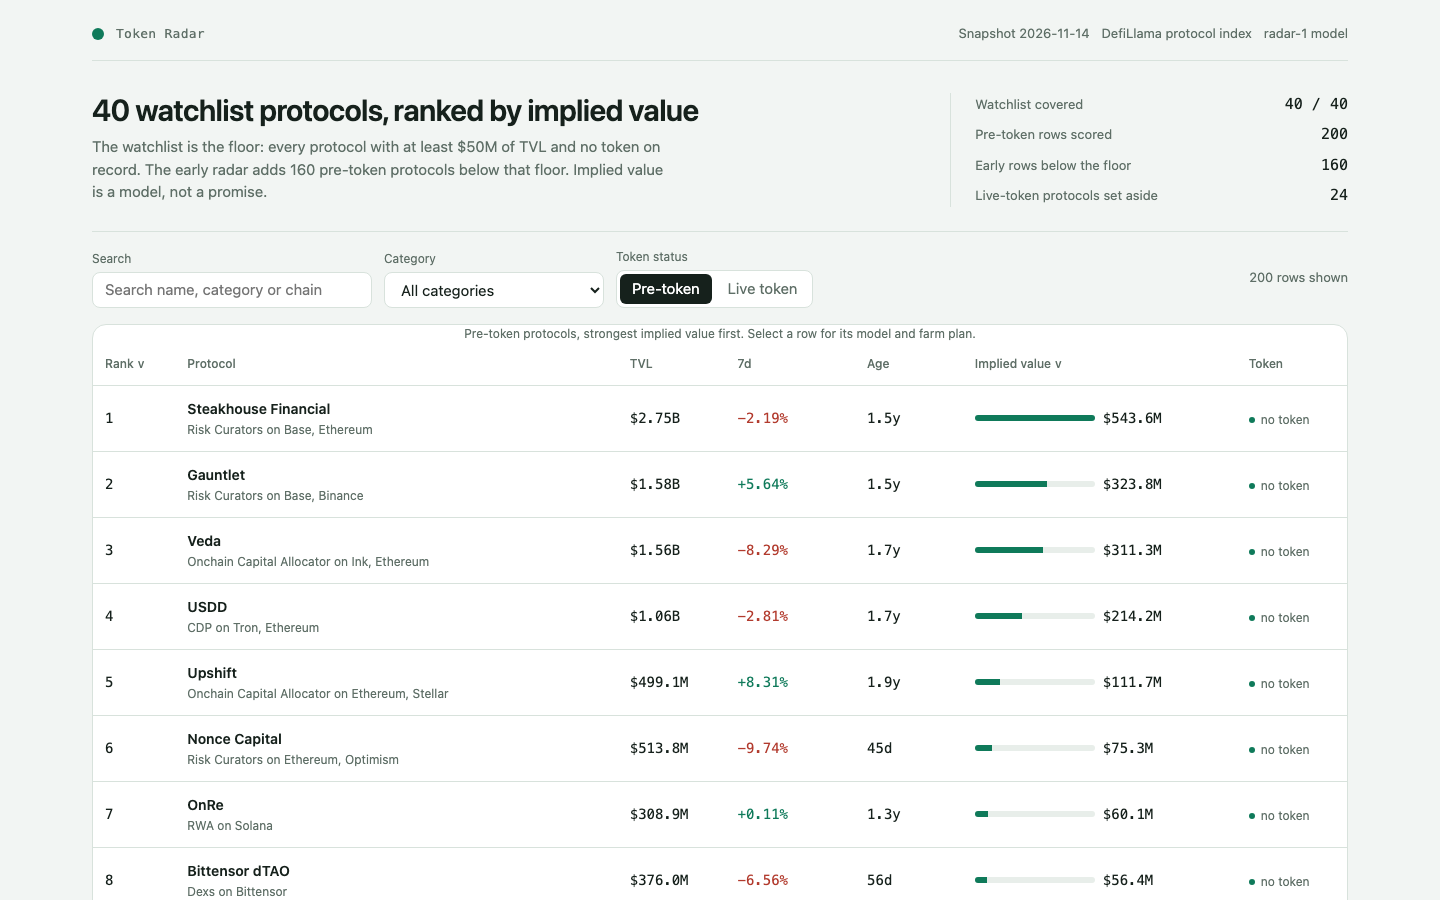
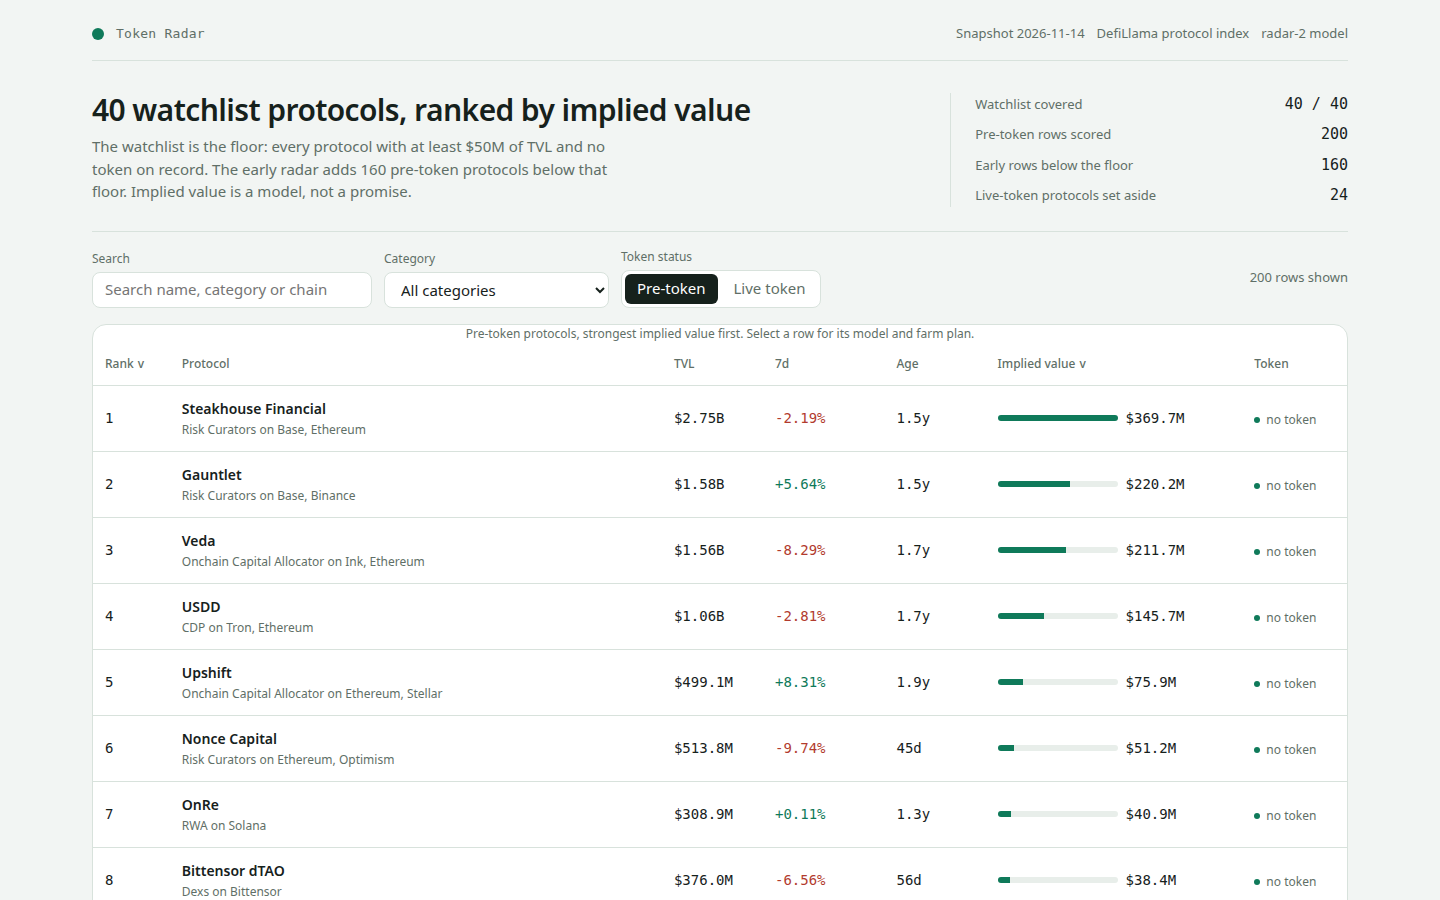
radar-3: detail farm plan is board.json's own plan, sticky header, hover fix, early-find chips, fresh screenshots

diff --git a/dashboard/app.js b/dashboard/app.js
@@ -57,56 +57,8 @@
     return node;
   }
 
-  // The farm plan is the same derivation main.ts writes to board.json: category, chains, TVL and age
-  // decide the action, the capital, the hold and every cost and time. No name is special-cased.
-  function chainOf(p) { return p.chains && p.chains.length > 0 ? p.chains[0] : 'its main chain'; }
-  function capitalFor(p) {
-    if (p.tvl_usd >= 5e9) return 250;
-    if (p.tvl_usd >= 1e9) return 150;
-    if (p.tvl_usd >= 1e8) return 100;
-    return 50;
-  }
-  function holdDaysFor(age) {
-    if (age === null || age === undefined) return 30;
-    if (age < 180) return 60;
-    if (age < 365) return 45;
-    return 30;
-  }
-  function actionFor(p, capital, chain) {
-    var c = (p.category || '').toLowerCase();
-    var name = p.name;
-    if (c.indexOf('lend') >= 0 || c.indexOf('cdp') >= 0 || c.indexOf('collateral') >= 0) return 'Supply $' + capital + ' of USDC to ' + name + ' on ' + chain + ' and keep the position open.';
-    if (c.indexOf('dex') >= 0 || c.indexOf('yield') >= 0 || c.indexOf('leveraged farm') >= 0) return 'Provide $' + capital + ' of liquidity to ' + name + "'s main pool on " + chain + ' and keep the position open.';
-    if (c.indexOf('bridge') >= 0) return 'Bridge $' + capital + ' of USDC to ' + chain + ' through ' + name + ' and use the bridged funds in its app.';
-    if (c.indexOf('staking') >= 0 || c.indexOf('restak') >= 0) return "Stake $" + capital + " of the chain's staking asset through " + name + ' and keep the receipt.';
-    if (c.indexOf('perpetual') >= 0 || c.indexOf('derivative') >= 0) return 'Deposit $' + capital + ' of USDC as margin on ' + name + ' and open one small hedge.';
-    if (c.indexOf('prediction') >= 0) return 'Fund $' + capital + ' and place one market position on ' + name + '.';
-    if (c.indexOf('curator') >= 0 || c.indexOf('allocator') >= 0) return 'Deposit $' + capital + ' into a ' + name + ' vault on ' + chain + ' and keep the shares.';
-    if (c.indexOf('stable') >= 0) return 'Mint or deposit $' + capital + ' of the stable asset through ' + name + ' on ' + chain + '.';
-    if (c.indexOf('rwa') >= 0) return "Mint $" + capital + " of the protocol's yield asset on " + chain + ' and hold it.';
-    if (c.indexOf('insurance') >= 0) return 'Buy $' + capital + ' of cover from ' + name + ' on ' + chain + ' and keep the policy.';
-    return 'Deposit $' + capital + ' of USDC into ' + name + ' on ' + chain + ' and keep the position open.';
-  }
-  function stepText(step) {
-    var s = step.text + ' Cost: ' + step.cost + '. Time: ' + step.time + '.';
-    if (s.length > 600) s = s.slice(0, 596) + '...';
-    if (s.length < 20) s = s + " Hold the position and check the protocol's own page.";
-    return s;
-  }
-  function farmSteps(p) {
-    var chain = chainOf(p);
-    var capital = capitalFor(p);
-    var hold = holdDaysFor(p.age_days);
-    return [
-      { text: 'Use a fresh wallet that holds only the funds you plan to farm, and keep its seed phrase offline.', cost: 'under $3 of gas for the first transaction', time: '5 minutes' },
-      { text: actionFor(p, capital, chain), cost: '$' + capital + ' of capital and about $' + (capital >= 150 ? 8 : 4) + ' of gas', time: '15 minutes to set up' },
-      { text: 'Make one qualifying action each week, such as a deposit, a borrow, a swap or a vote.', cost: 'about $2 of gas a week', time: '10 minutes a week' },
-      { text: 'Hold the position for at least ' + hold + ' days so the activity is counted in more than one snapshot.', cost: 'the $' + capital + ' stays in the position', time: hold + ' days' },
-      { text: "Before you withdraw, open the protocol's own points or rewards page and claim only from the link it publishes.", cost: 'no fee to check, and never pay to claim', time: '10 minutes' },
-      { text: 'Write the wallet, the dates and every transaction in a farm log so you can repeat the position or unwind it.', cost: 'nothing but the log', time: '5 minutes' }
-    ].map(stepText);
-  }
-
+  // The farm plan is board.json's own: data.js carries each row's farm_steps verbatim, so the
+  // detail view shows exactly the plan the gate checks. No second copy lives in this file.
   function readHash() {
     var hash = window.location.hash.replace(/^#/, '');
     if (!hash) return;
@@ -212,7 +164,7 @@
         el('button', { class: 'button primary', type: 'button', text: 'Clear filters', onclick: function () { state.q = ''; state.category = 'all'; writeHash(); render(); } })
       ));
     }
-    var max = list[0].implied_value_usd || 1;
+    var max = DATA.rows.reduce(function (m, r) { return Math.max(m, r.implied_value_usd); }, 1);
     var tbody = el('tbody');
     list.forEach(function (r) {
       var growth = r.change_7d === null ? 'n/a' : fmtPct(r.change_7d);
@@ -226,7 +178,7 @@
         el('td', { class: 'num', text: String(r.rank) }),
         el('td', null, el('div', { class: 'name' },
           el('b', { text: r.name }),
-          el('span', { class: 'sub', text: (r.category || 'Other') + ' on ' + (r.chains && r.chains.length ? r.chains.slice(0, 2).join(', ') : 'an unnamed chain') })
+          el('span', { class: 'sub', text: (r.category || 'Other') + ' on ' + (r.chains && r.chains.length ? r.chains.slice(0, 2).join(', ') : 'an unnamed chain') + (r.tvl_usd < DATA.floor_usd ? ' · early find' : '') })
         )),
         el('td', { class: 'num', text: fmtUsd(r.tvl_usd) }),
         el('td', { class: 'num ' + growthClass, text: growth }),
@@ -244,7 +196,7 @@
         el('table', null,
           el('caption', { class: 'sub', text: 'Pre-token protocols, strongest implied value first. Select a row for its model and farm plan.' }),
           el('thead', null, el('tr', null,
-            sortHeader('implied', 'Rank'),
+            el('th', { scope: 'col', text: 'Rank' }),
             sortHeader('name', 'Protocol'),
             sortHeader('tvl', 'TVL'),
             sortHeader('growth', '7d'),
@@ -263,7 +215,7 @@
     DATA.live.forEach(function (r) {
       tbody.appendChild(el('tr', null,
         el('td', { class: 'num', text: 'live' }),
-        el('td', null, el('div', { class: 'name' }, el('b', { text: r.name }), el('span', { class: 'sub', text: (r.category || 'Other') + ' on ' + (r.chains && r.chains.length ? r.chains.slice(0, 2).join(', ') : 'an unnamed chain') }))),
+        el('td', null, el('div', { class: 'name' }, el('b', { text: r.name }), el('span', { class: 'sub', text: (r.category || 'Other') + ' on ' + (r.chains && r.chains.length ? r.chains.slice(0, 2).join(', ') : 'an unnamed chain') + (r.tvl_usd < DATA.floor_usd ? ' · early find' : '') }))),
         el('td', { class: 'num', text: fmtUsd(r.tvl_usd) }),
         el('td', { class: 'num ' + (r.change_7d !== null && r.change_7d >= 0 ? 'pos' : 'neg'), text: fmtPct(r.change_7d) }),
         el('td', { class: 'num', text: fmtUsd(r.mcap_usd) }),
@@ -302,7 +254,7 @@
     state.selected = slug;
     writeHash();
     dialog.textContent = '';
-    var steps = farmSteps(row);
+    var steps = row.farm_steps || [];
     dialog.appendChild(el('div', { class: 'detail-head' },
       el('div', null,
         el('span', { class: 'brand-name', text: 'Rank ' + row.rank + ' of ' + DATA.board_size }),

diff --git a/dashboard/app.css b/dashboard/app.css
@@ -83,7 +83,8 @@ th { color: var(--muted); font-size: 12px; font-weight: 500; white-space: nowrap
 th button { display: inline-flex; align-items: center; gap: var(--step-1); border: 0; background: none; padding: 0; color: inherit; font: inherit; }
 th button:hover { color: var(--ink); }
 tbody tr { cursor: pointer; }
-tbody tr:hover { background: var(--surface); }
+tbody tr:hover { background: color-mix(in srgb, var(--accent) 5%, var(--surface)); }
+thead th { position: sticky; top: 0; background: var(--surface); z-index: 1; }
 tbody tr[data-selected="true"] { background: color-mix(in srgb, var(--accent) 8%, var(--surface)); }
 .num { font-family: var(--font-num); font-variant-numeric: tabular-nums; white-space: nowrap; }
 .name { display: grid; gap: 2px; }

diff --git a/lib/model.ts b/lib/model.ts
@@ -123,6 +123,8 @@ export interface RadarRow {
   implied_value_usd: number;
   growth_multiplier: number;
   maturity_multiplier: number;
+  /** The board's own farm plan, copied verbatim: the detail view shows these exact steps. */
+  farm_steps: string[];
 }
 
 /** A live-token protocol: it already trades, so the board shows the market's own value, not a model's. */
@@ -394,6 +396,7 @@ export function radarRow(row: BoardRow): RadarRow {
     implied_value_usd: row.implied_value_usd,
     growth_multiplier: row.model.growth_multiplier,
     maturity_multiplier: row.model.maturity_multiplier,
+    farm_steps: row.farm_steps,
   };
 }
 
